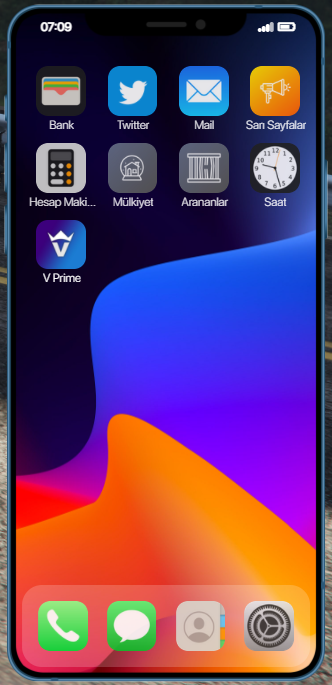
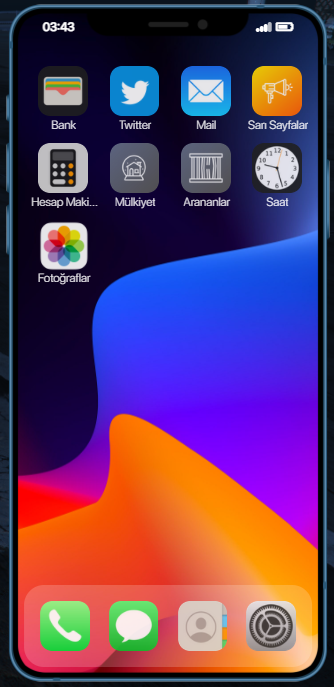
update readme & minor clean

diff --git a/html/js/twitter.js b/html/js/twitter.js
@@ -221,12 +221,7 @@ NM.Phone.Functions.FormatTwitterMessage = function(TwitterMessage) {
 }
 
 $(document).on('keyup', '#tweet-new-image', function() {
-    console.log('sea');
     let url = $('#tweet-new-image').prop('value');
-    console.log(url != "");
-    console.log(url.startsWith('http'), "sa");
-    console.log(url.endsWith('.png'));
-    console.log(url.endsWith('.jpg'));
 
     if (url != "" && url.startsWith('http') && (url.endsWith('.png') || url.endsWith('.jpg'))) {
         $('#new-tweet-image').css('display', 'block'); 

diff --git a/html/js/photos.js b/html/js/photos.js
@@ -5,7 +5,6 @@ $('#save-image-to-photos').click(function() {
 });
 
 function SetupPhotos(photos) {
-    console.log(photos)
     if (photos !== undefined) {
         $('.photos-content').empty();
 
@@ -19,7 +18,6 @@ function SetupPhotos(photos) {
                     </img>`
             }).data("data", photo.Data);
 
-            console.log("photo added", photoChild)
             photoChild.appendTo(".photos-content");
         });
     }

diff --git a/html/js/bank.js b/html/js/bank.js
@@ -249,9 +249,6 @@ $(document).on('click', '.decline-invoice', function(event) {
     // var InvoiceId = $(this).parent().parent().attr('id');
     // var InvoiceData = $("#" + InvoiceId).data('invoicedata');
 
-    // console.log(InvoiceId);
-    // console.log($(this).parent().parent());
-
     // $.post('http://qb-phone/DeclineInvoice', JSON.stringify({
     //     sender: InvoiceData.sender,
     //     amount: InvoiceData.amount,

diff --git a/html/js/settings.js b/html/js/settings.js
@@ -116,7 +116,7 @@ $(document).on('click', '.background-option', function(e){
     PressedBackgroundObject = this;
     OldBackground = $(this).parent().find('.background-option-current');
     IsChecked = $(this).find('.background-option-current');
-    console.log(IsChecked.length)
+    
     if (IsChecked.length === 0) {
         if (PressedBackground == "custom-background") {
             $(".background-custom").show();

diff --git a/html/js/phone.js b/html/js/phone.js
@@ -587,7 +587,6 @@ SetupCall = function(cData) {
         Anonymous: NM.Phone.Data.AnonymousCall,
     }), function(status){
         if (cData.number !== NM.Phone.Data.PlayerData.charinfo.phone) {
-            console.log(status);
             if(!status.IsOnline) {
                 NM.Phone.Notifications.Add("phone", "Telefon", "Aradığınzı kişiye şuanda ulaşılamıyor");
                 return;

diff --git a/README.md b/README.md
@@ -35,24 +35,26 @@ end
 
 
 ### Todo List:
-* Clock (Currently Working On)
-* Remake Bank
+* Photos App (Currently working on)
+* Rework Notification System
 * Yellowpages multi-image support
-* Twitter Accounts
-* Gallery App
-* Images will save to gallery
-* Redesing Wanteds
+* Rework Twitter
+* Remake Bank
+* Remake Wanteds
 * Improve Zoom
 
 ### Main Menu
 ![Main Menu](/readme/1.png)
 -----
-### Bank (Developing rn)
+### Photos App
+![Photos](/readme/photos_1.png)
+-----
+### Bank
 > Dependencies
 > * [vlast-bank](https://github.com/torchizm/vlast-bank)
 
 
-![Bank](/readme/2.png)
+![Bank](/readme/bank_1.png)
 -----
 ### Calculator with all functions
 ![Calculator](/readme/calculator.png)
